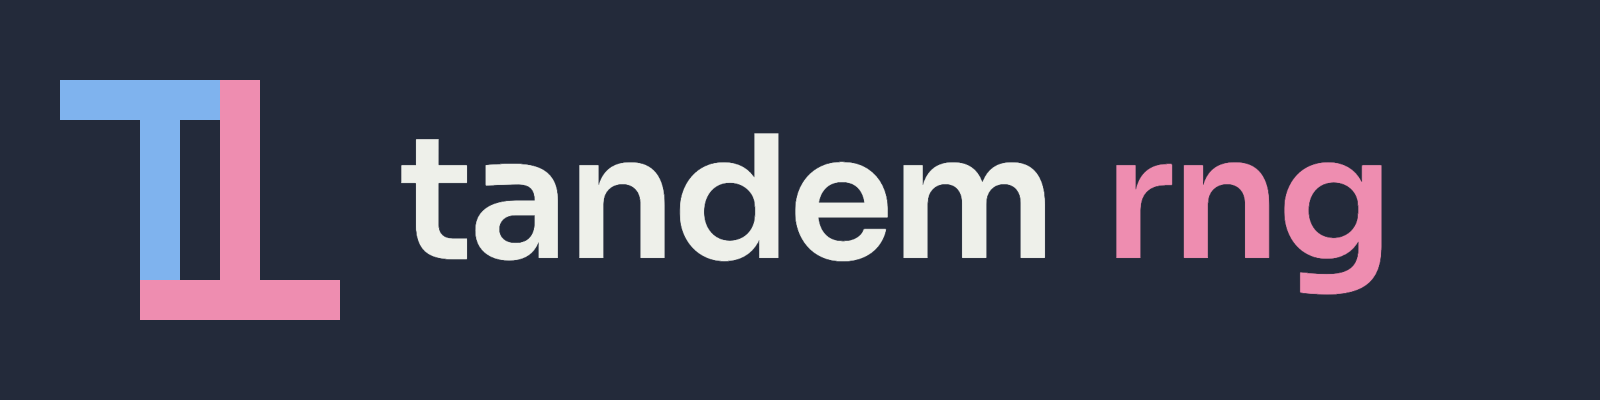
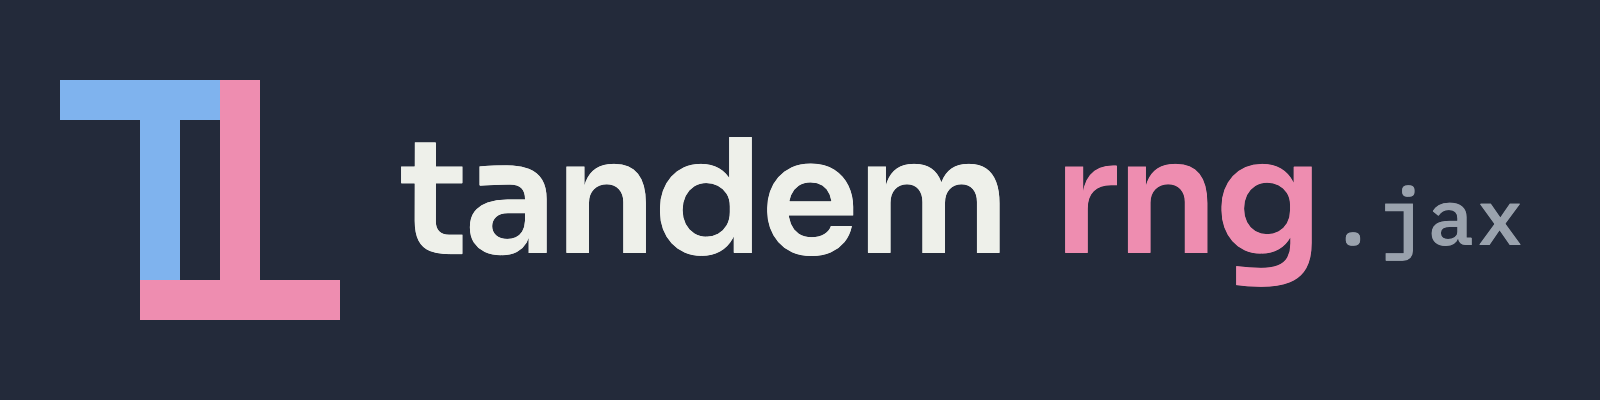
Add the repo's own lockup to the README

Changed region(s): [[0.25, 0.33, 0.9688, 0.75], [0.25, 0.33, 0.2812, 0.36]]

diff --git a/README.md b/README.md
@@ -1,4 +1,4 @@
-<p align="center"><img src="assets/lockup.png" width="560" alt="tandem rng"></p>
+<p align="center"><img src="assets/lockup.png" width="560" alt="tandem rng .jax"></p>
 
 # tandem-jax
 
